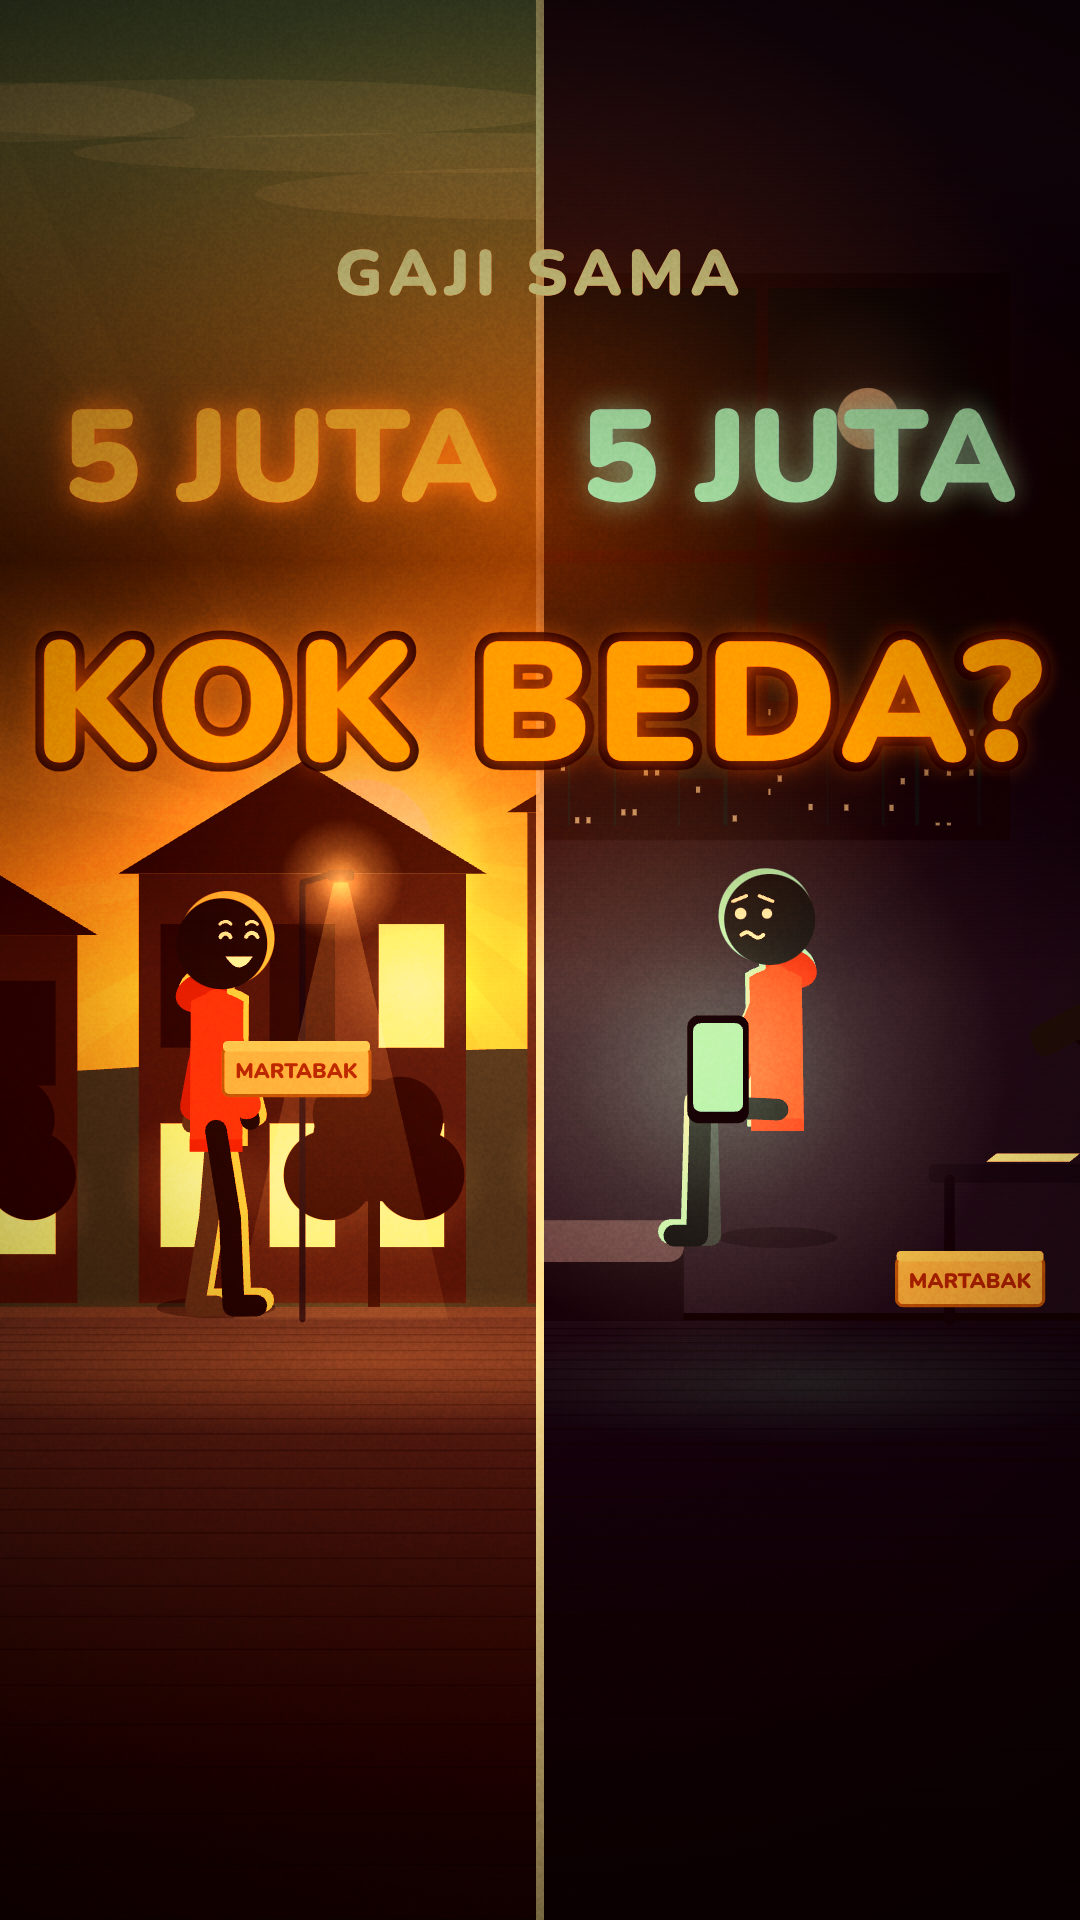
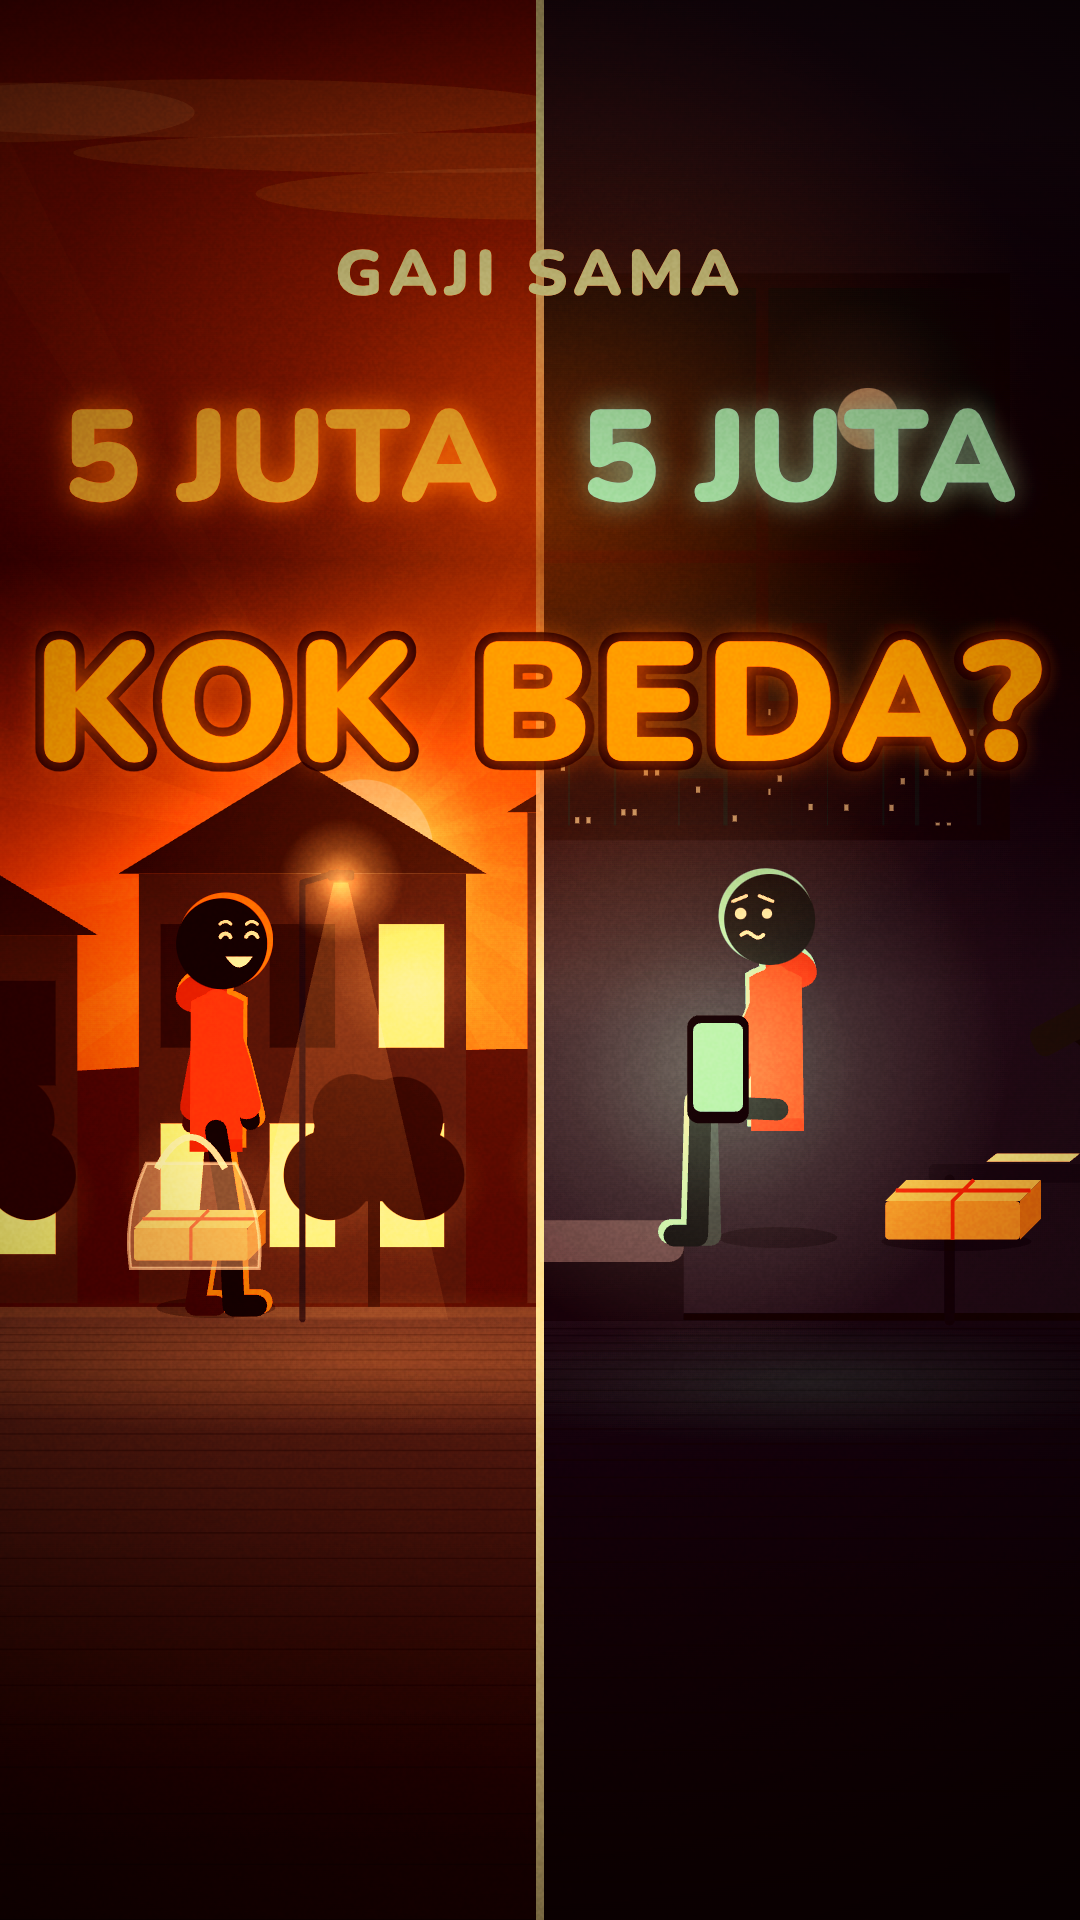
#6: kotak martabak diperbaiki (kresek + di lantai), dunia hangat pakai gaya ember
Claude-Session: https://claude.ai/code/session_0198S32JAWrejH3rGz3UEmXJ

Changed region(s): [[0.0, 0.0, 0.5194, 0.6875], [0.7944, 0.5938, 0.9778, 0.6875]]

diff --git a/studio/projects/dua-orang-satu-gaji-cover/scenes/shots/01_cerita.js b/studio/projects/dua-orang-satu-gaji-cover/scenes/shots/01_cerita.js
@@ -15,12 +15,22 @@ const pop = (t, at, d = 0.3) => ease.outBack(prog(t, at - 0.08, at - 0.08 + d));
 const withStyle = (id, fn) => { const k = E.styleId; setStyle(id); try { fn(); } finally { setStyle(k); } };
 
 // --- props -------------------------------------------------------------------------------------------
-export function martabak(g, x, y, s = 1, open = 0) {
+export function martabak(g, x, y, s = 1) {   // (x, y) = bottom-centre of the box
   g.save(); g.translate(x, y); g.scale(s, s);
-  rr(g, -70, -46, 140, 46, 6); g.fillStyle = '#d9b27a'; g.fill();
-  g.strokeStyle = '#8a6532'; g.lineWidth = 3; g.stroke();
-  g.save(); g.translate(-70, -46); g.rotate(-open * 1.2); rr(g, 0, -6, 140, 10, 4); g.fillStyle = '#e6c38c'; g.fill(); g.restore();
-  text(g, 'MARTABAK', 0, -22, { size: 20, color: '#7a3b1c', font: FONTS.ui, weight: 900 });
+  g.fillStyle = 'rgba(0,0,0,.25)'; g.beginPath(); g.ellipse(4, 2, 78, 10, 0, 0, Math.PI * 2); g.fill();
+  rr(g, -70, -40, 140, 40, 4); g.fillStyle = '#c99a5b'; g.fill();                       // front
+  g.beginPath(); g.moveTo(-70, -40); g.lineTo(-48, -62); g.lineTo(92, -62); g.lineTo(70, -40); g.closePath(); g.fillStyle = '#e2bd84'; g.fill(); // top
+  g.beginPath(); g.moveTo(70, -40); g.lineTo(92, -62); g.lineTo(92, -22); g.lineTo(70, 0); g.closePath(); g.fillStyle = '#a97c43'; g.fill();   // side
+  g.strokeStyle = '#d63a2a'; g.lineWidth = 4; g.beginPath(); g.moveTo(0, 0); g.lineTo(0, -40); g.lineTo(22, -62); g.moveTo(-59, -51); g.lineTo(81, -51); g.stroke();
+  g.restore();
+}
+// kresek (plastic bag) hanging from a hand at (hx, hy), box visible inside
+export function kresek(g, hx, hy, s = 1) {
+  g.save(); g.translate(hx, hy); g.scale(s, s);
+  g.strokeStyle = 'rgba(245,240,230,.9)'; g.lineWidth = 5; g.beginPath(); g.moveTo(-26, 34); g.quadraticCurveTo(0, -14, 26, 34); g.stroke();
+  martabak(g, 0, 104, 0.62);
+  g.beginPath(); g.moveTo(-34, 30); g.quadraticCurveTo(-52, 70, -46, 110); g.lineTo(52, 110); g.quadraticCurveTo(56, 70, 34, 30); g.closePath();
+  g.fillStyle = 'rgba(250,246,238,.38)'; g.fill(); g.strokeStyle = 'rgba(255,255,255,.55)'; g.lineWidth = 2.5; g.stroke();
   g.restore();
 }
 export function phone(g, x, y, s = 1, glowA = 1, color = ICE) {
@@ -48,7 +58,7 @@ function warmWorld(g, t, o = {}) {
   const GY = r.GY, x = o.x ?? E.W * 0.42 + (o.walk ? 40 * Math.sin(t * 0.5) : 0);
   const pose = o.pose || (o.walk ? walkPose(t * 1.6) : breathe(POSES.relaxed, t, 0.5, 2));
   drawFigure(g, { x, y: GY, s: o.s ?? 2.0, facing: o.facing ?? 1, outfit: HERO, pose, expr: o.expr || 'happy', look: o.look || [0.3, 0], blink: (t % 3.1) > 2.98, rim: { color: r.M.rim, dir: [1, -1] } });
-  if (o.box !== false) martabak(g, x + 46 * (o.s ?? 2.0) * (o.facing ?? 1), GY - 120 * (o.s ?? 2.0), 0.6 * (o.s ?? 2.0));
+  if (o.box !== false) { const sc = o.s ?? 2.0, fc = o.facing ?? 1; kresek(g, x + pose.hB[0] * sc * fc, GY + pose.hB[1] * sc, sc * 0.75); }
   return r;
 }
 // Si Kurang: kamar biru malam, duduk di kasur, martabak tak disentuh, HP menyala
@@ -58,7 +68,7 @@ function coldWorld(g, t, o = {}) {
   const GY = r.GY, x = o.x ?? E.W * 0.5, s = o.s ?? 2.0;
   const f = { x, y: GY - 70, s, facing: o.facing ?? -1, outfit: HERO, pose: breathe(POSES.sit, t, 0.4, 4), expr: o.expr || 'worried', look: o.look || [-0.4, 0.6], blink: (t % 2.6) > 2.5, rim: { color: ICE, dir: [-1, -1] } };
   drawFigure(g, f);
-  if (o.box !== false) martabak(g, x + 110 * s, GY, 0.6 * s, 0);
+  if (o.box !== false) martabak(g, x + 100 * s, GY - 66, 0.55 * s);   // on the floor by his feet, untouched
   const px = x + 34 * s * f.facing, py = GY - 70 - 95 * s;
   if (o.phone !== false) phone(g, px, py, 1.1 * s, o.glowA ?? 1);
   return { ...r, px, py };
@@ -68,7 +78,7 @@ function coldWorld(g, t, o = {}) {
 export function split(g, t, o = {}) {
   const mid = o.mid ?? E.W / 2, gap = o.gap ?? 0;
   g.save(); g.beginPath(); g.rect(-E.W, -E.H, mid - gap + E.W, E.H * 3); g.clip();
-  g.save(); g.translate(-E.W * 0.22 + (o.shiftL || 0), 0); withStyle('retro', () => warmWorld(g, t, { s: 1.75, ...(o.L || {}) })); g.restore();
+  g.save(); g.translate(-E.W * 0.22 + (o.shiftL || 0), 0); withStyle('ember', () => warmWorld(g, t, { s: 1.75, ...(o.L || {}) })); g.restore();
   g.restore();
   g.save(); g.beginPath(); g.rect(mid + gap, -E.H, E.W * 2, E.H * 3); g.clip();
   g.save(); g.translate(E.W * 0.22 + (o.shiftR || 0), 0); withStyle('arctic', () => coldWorld(g, t, { s: 1.75, ...(o.R || {}) })); g.restore();
@@ -107,7 +117,7 @@ registerShot('s03', { draw(g, t, info) {
   const tn = rel('nabung', info, 1.5);
   piggy(g, E.W * 0.7, 900, 0.9, clamp((t - tn) / 0.6));
   const tt = rel('traktir', info, 2.3), a = pop(t, tt);
-  if (a > 0) { g.save(); g.translate(E.W * 0.7, 560); g.scale(a, a); martabak(g, 0, 0, 1.4); text(g, 'BUAT IBU ♥', 0, 60, { size: 40, color: WARM, font: FONTS.ui, weight: 900 }); g.restore(); }
+  if (a > 0) { g.save(); g.translate(E.W * 0.7, 560); g.scale(a, a); martabak(g, 0, 20, 1.4); text(g, 'BUAT IBU ♥', 0, 80, { size: 40, color: WARM, font: FONTS.ui, weight: 900 }); g.restore(); }
   badge(g, 'CUKUP', 1, WARM);
 } });
 
@@ -218,7 +228,7 @@ registerShot('s11', { draw(g, t, info) {
   g.fillStyle = '#0b0605'; g.fillRect(0, 0, E.W, E.H);
   const cx = E.W / 2, cy = 640, r = 300;
   g.save(); g.beginPath(); g.rect(0, 0, cx, E.H); g.clip(); glow(g, cx - 250, cy, 700, WARM, 0.3);
-  withStyle('retro', () => bigFace(g, cx, cy, r, { outfit: HERO, expr: 'happy', look: [0, 0], blink: false, rimColor: WARM, rimSide: -1 })); g.restore();
+  withStyle('ember', () => bigFace(g, cx, cy, r, { outfit: HERO, expr: 'happy', look: [0, 0], blink: false, rimColor: WARM, rimSide: -1 })); g.restore();
   g.save(); g.beginPath(); g.rect(cx, 0, E.W, E.H); g.clip(); glow(g, cx + 250, cy, 700, ICE, 0.3);
   withStyle('arctic', () => bigFace(g, cx, cy, r, { outfit: HERO, expr: 'worried', look: [0, 0], blink: false, rimColor: ICE, rimSide: 1 })); g.restore();
   g.fillStyle = alpha('#fff', 0.8); g.fillRect(cx - 3, cy - r * 1.2, 6, r * 2.4);

diff --git a/studio/projects/dua-orang-satu-gaji-shorts/scenes/shots/01_cerita.js b/studio/projects/dua-orang-satu-gaji-shorts/scenes/shots/01_cerita.js
@@ -15,12 +15,22 @@ const pop = (t, at, d = 0.3) => ease.outBack(prog(t, at - 0.08, at - 0.08 + d));
 const withStyle = (id, fn) => { const k = E.styleId; setStyle(id); try { fn(); } finally { setStyle(k); } };
 
 // --- props -------------------------------------------------------------------------------------------
-export function martabak(g, x, y, s = 1, open = 0) {
+export function martabak(g, x, y, s = 1) {   // (x, y) = bottom-centre of the box
   g.save(); g.translate(x, y); g.scale(s, s);
-  rr(g, -70, -46, 140, 46, 6); g.fillStyle = '#d9b27a'; g.fill();
-  g.strokeStyle = '#8a6532'; g.lineWidth = 3; g.stroke();
-  g.save(); g.translate(-70, -46); g.rotate(-open * 1.2); rr(g, 0, -6, 140, 10, 4); g.fillStyle = '#e6c38c'; g.fill(); g.restore();
-  text(g, 'MARTABAK', 0, -22, { size: 20, color: '#7a3b1c', font: FONTS.ui, weight: 900 });
+  g.fillStyle = 'rgba(0,0,0,.25)'; g.beginPath(); g.ellipse(4, 2, 78, 10, 0, 0, Math.PI * 2); g.fill();
+  rr(g, -70, -40, 140, 40, 4); g.fillStyle = '#c99a5b'; g.fill();                       // front
+  g.beginPath(); g.moveTo(-70, -40); g.lineTo(-48, -62); g.lineTo(92, -62); g.lineTo(70, -40); g.closePath(); g.fillStyle = '#e2bd84'; g.fill(); // top
+  g.beginPath(); g.moveTo(70, -40); g.lineTo(92, -62); g.lineTo(92, -22); g.lineTo(70, 0); g.closePath(); g.fillStyle = '#a97c43'; g.fill();   // side
+  g.strokeStyle = '#d63a2a'; g.lineWidth = 4; g.beginPath(); g.moveTo(0, 0); g.lineTo(0, -40); g.lineTo(22, -62); g.moveTo(-59, -51); g.lineTo(81, -51); g.stroke();
+  g.restore();
+}
+// kresek (plastic bag) hanging from a hand at (hx, hy), box visible inside
+export function kresek(g, hx, hy, s = 1) {
+  g.save(); g.translate(hx, hy); g.scale(s, s);
+  g.strokeStyle = 'rgba(245,240,230,.9)'; g.lineWidth = 5; g.beginPath(); g.moveTo(-26, 34); g.quadraticCurveTo(0, -14, 26, 34); g.stroke();
+  martabak(g, 0, 104, 0.62);
+  g.beginPath(); g.moveTo(-34, 30); g.quadraticCurveTo(-52, 70, -46, 110); g.lineTo(52, 110); g.quadraticCurveTo(56, 70, 34, 30); g.closePath();
+  g.fillStyle = 'rgba(250,246,238,.38)'; g.fill(); g.strokeStyle = 'rgba(255,255,255,.55)'; g.lineWidth = 2.5; g.stroke();
   g.restore();
 }
 export function phone(g, x, y, s = 1, glowA = 1, color = ICE) {
@@ -48,7 +58,7 @@ function warmWorld(g, t, o = {}) {
   const GY = r.GY, x = o.x ?? E.W * 0.42 + (o.walk ? 40 * Math.sin(t * 0.5) : 0);
   const pose = o.pose || (o.walk ? walkPose(t * 1.6) : breathe(POSES.relaxed, t, 0.5, 2));
   drawFigure(g, { x, y: GY, s: o.s ?? 2.0, facing: o.facing ?? 1, outfit: HERO, pose, expr: o.expr || 'happy', look: o.look || [0.3, 0], blink: (t % 3.1) > 2.98, rim: { color: r.M.rim, dir: [1, -1] } });
-  if (o.box !== false) martabak(g, x + 46 * (o.s ?? 2.0) * (o.facing ?? 1), GY - 120 * (o.s ?? 2.0), 0.6 * (o.s ?? 2.0));
+  if (o.box !== false) { const sc = o.s ?? 2.0, fc = o.facing ?? 1; kresek(g, x + pose.hB[0] * sc * fc, GY + pose.hB[1] * sc, sc * 0.75); }
   return r;
 }
 // Si Kurang: kamar biru malam, duduk di kasur, martabak tak disentuh, HP menyala
@@ -58,7 +68,7 @@ function coldWorld(g, t, o = {}) {
   const GY = r.GY, x = o.x ?? E.W * 0.5, s = o.s ?? 2.0;
   const f = { x, y: GY - 70, s, facing: o.facing ?? -1, outfit: HERO, pose: breathe(POSES.sit, t, 0.4, 4), expr: o.expr || 'worried', look: o.look || [-0.4, 0.6], blink: (t % 2.6) > 2.5, rim: { color: ICE, dir: [-1, -1] } };
   drawFigure(g, f);
-  if (o.box !== false) martabak(g, x + 110 * s, GY, 0.6 * s, 0);
+  if (o.box !== false) martabak(g, x + 100 * s, GY - 66, 0.55 * s);   // on the floor by his feet, untouched
   const px = x + 34 * s * f.facing, py = GY - 70 - 95 * s;
   if (o.phone !== false) phone(g, px, py, 1.1 * s, o.glowA ?? 1);
   return { ...r, px, py };
@@ -68,7 +78,7 @@ function coldWorld(g, t, o = {}) {
 function split(g, t, o = {}) {
   const mid = o.mid ?? E.W / 2, gap = o.gap ?? 0;
   g.save(); g.beginPath(); g.rect(-E.W, -E.H, mid - gap + E.W, E.H * 3); g.clip();
-  g.save(); g.translate(-E.W * 0.22 + (o.shiftL || 0), 0); withStyle('retro', () => warmWorld(g, t, { s: 1.75, ...(o.L || {}) })); g.restore();
+  g.save(); g.translate(-E.W * 0.22 + (o.shiftL || 0), 0); withStyle('ember', () => warmWorld(g, t, { s: 1.75, ...(o.L || {}) })); g.restore();
   g.restore();
   g.save(); g.beginPath(); g.rect(mid + gap, -E.H, E.W * 2, E.H * 3); g.clip();
   g.save(); g.translate(E.W * 0.22 + (o.shiftR || 0), 0); withStyle('arctic', () => coldWorld(g, t, { s: 1.75, ...(o.R || {}) })); g.restore();
@@ -107,7 +117,7 @@ registerShot('s03', { draw(g, t, info) {
   const tn = rel('nabung', info, 1.5);
   piggy(g, E.W * 0.7, 900, 0.9, clamp((t - tn) / 0.6));
   const tt = rel('traktir', info, 2.3), a = pop(t, tt);
-  if (a > 0) { g.save(); g.translate(E.W * 0.7, 560); g.scale(a, a); martabak(g, 0, 0, 1.4); text(g, 'BUAT IBU ♥', 0, 60, { size: 40, color: WARM, font: FONTS.ui, weight: 900 }); g.restore(); }
+  if (a > 0) { g.save(); g.translate(E.W * 0.7, 560); g.scale(a, a); martabak(g, 0, 20, 1.4); text(g, 'BUAT IBU ♥', 0, 80, { size: 40, color: WARM, font: FONTS.ui, weight: 900 }); g.restore(); }
   badge(g, 'CUKUP', 1, WARM);
 } });
 
@@ -218,7 +228,7 @@ registerShot('s11', { draw(g, t, info) {
   g.fillStyle = '#0b0605'; g.fillRect(0, 0, E.W, E.H);
   const cx = E.W / 2, cy = 640, r = 300;
   g.save(); g.beginPath(); g.rect(0, 0, cx, E.H); g.clip(); glow(g, cx - 250, cy, 700, WARM, 0.3);
-  withStyle('retro', () => bigFace(g, cx, cy, r, { outfit: HERO, expr: 'happy', look: [0, 0], blink: false, rimColor: WARM, rimSide: -1 })); g.restore();
+  withStyle('ember', () => bigFace(g, cx, cy, r, { outfit: HERO, expr: 'happy', look: [0, 0], blink: false, rimColor: WARM, rimSide: -1 })); g.restore();
   g.save(); g.beginPath(); g.rect(cx, 0, E.W, E.H); g.clip(); glow(g, cx + 250, cy, 700, ICE, 0.3);
   withStyle('arctic', () => bigFace(g, cx, cy, r, { outfit: HERO, expr: 'worried', look: [0, 0], blink: false, rimColor: ICE, rimSide: 1 })); g.restore();
   g.fillStyle = alpha('#fff', 0.8); g.fillRect(cx - 3, cy - r * 1.2, 6, r * 2.4);
